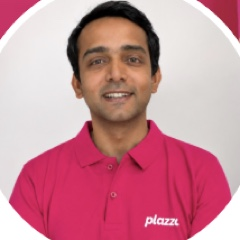
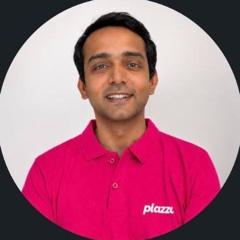
RFS: LinkedIn headshots for Aman Priyadarshi and Soumyadeep Mukherjee

diff --git a/src/app/requests/content.ts b/src/app/requests/content.ts
@@ -73,7 +73,7 @@ export const people: readonly Person[] = [
   { id: "shankar", name: "Shankar Ganesh", role: "Head of Product", company: "Storylane", type: "Operator", photo: "shankar.jpg", x: "_shankarganesh" },
   { id: "syed", name: "Syed Adil", role: "India Growth", company: "Replit", type: "Operator", photo: "syed.jpg" },
   { id: "aman", name: "Aman Priyadarshi", role: "Founder & CEO", company: "Plazza", type: "Founder", photo: "aman.jpg" },
-  { id: "soumyadeep", name: "Soumyadeep Mukherjee", role: "Co-founder & CTO", company: "Dashverse", type: "Founder" },
+  { id: "soumyadeep", name: "Soumyadeep Mukherjee", role: "Co-founder & CTO", company: "Dashverse", type: "Founder", photo: "soumyadeep.jpg" },
 ];
 
 export const tracks: readonly Track[] = [
